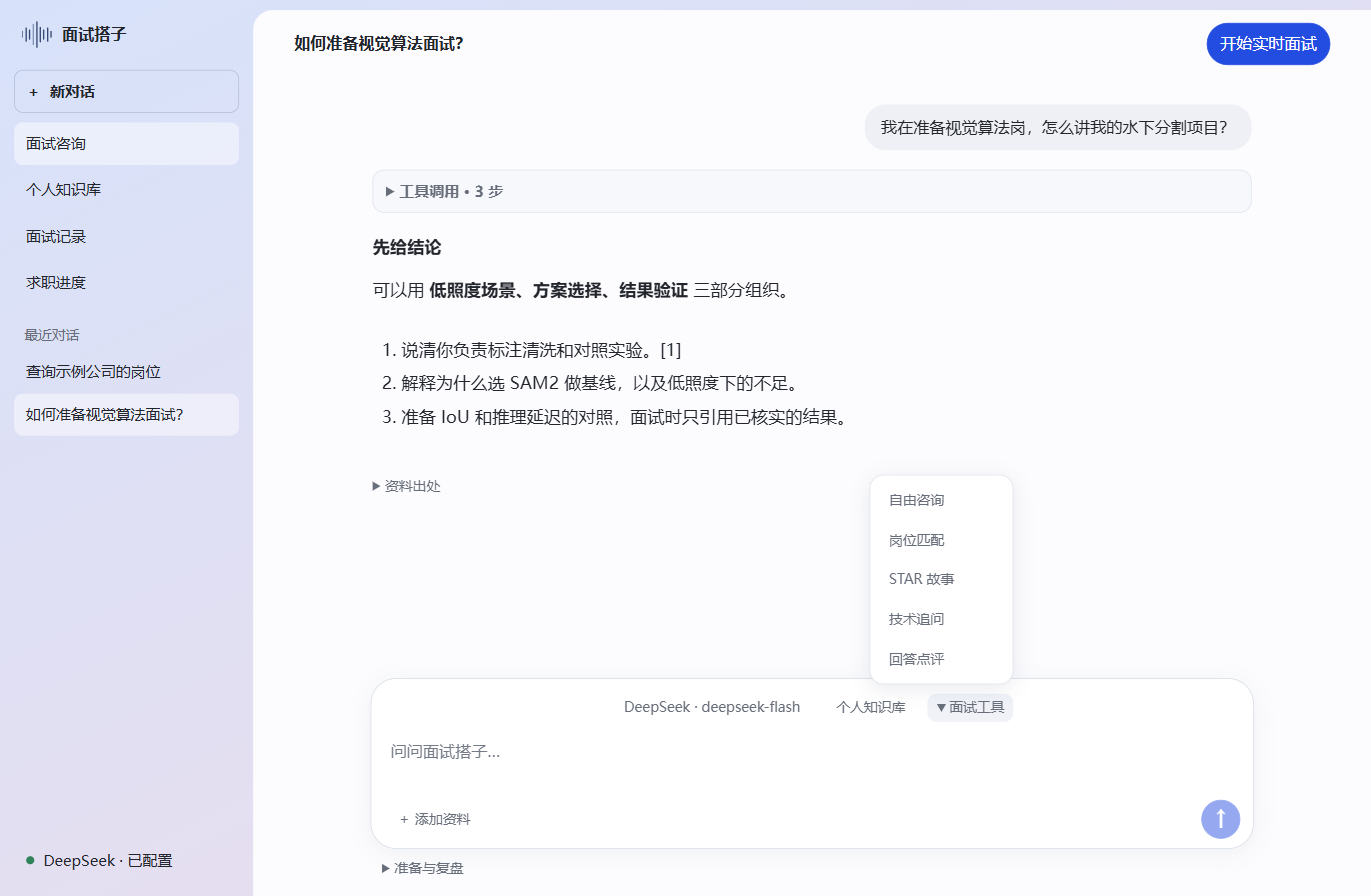
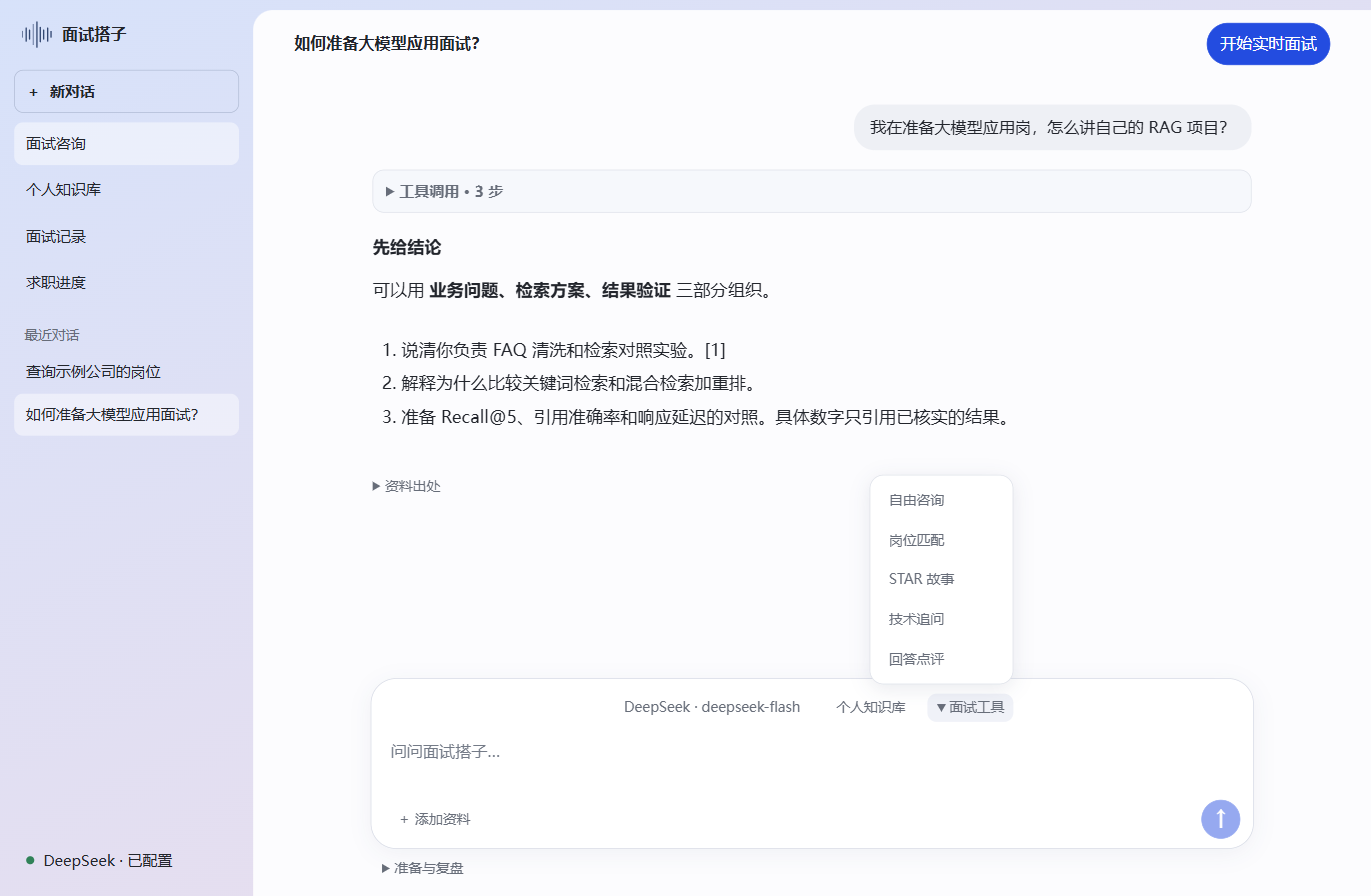
Use an LLM knowledge-base project in the feature demo

diff --git a/ui/index.html b/ui/index.html
@@ -85,7 +85,7 @@
           </div>
           <p class="muted extra-gap">支持 TXT、Markdown 和可选中文字的 PDF。</p>
           <form id="search-form" class="row gap-top">
-            <input id="search" aria-label="搜索个人资料" type="search" maxlength="400" placeholder="关键词，例如 SAM2" required>
+            <input id="search" aria-label="搜索个人资料" type="search" maxlength="400" placeholder="输入资料关键词" required>
             <button class="quiet" type="submit">搜索</button>
           </form>
           <div id="document-list" class="stack gap-top"></div>

diff --git a/README.md b/README.md
@@ -6,11 +6,11 @@
 
 ## 功能与截图
 
-以下截图均来自实际运行的面试搭子。公司、简历、网页和模型回复使用演示数据，实时转写来自合成语音。设置截图省略了本机数据目录。
+以下截图均来自实际运行的面试搭子，统一使用「企业知识库大模型问答（RAG）」作为案例。公司、简历、网页和模型回复使用演示数据，实时转写来自合成语音。设置截图省略了本机数据目录。
 
 ### 1. 面试咨询
 
-点击「新对话」直接提问，例如“我准备面试视觉算法岗，怎么介绍我的水下分割项目？”回复以流式方式显示。你可以在同一个对话里追问，也可以从侧边栏打开之前的对话。结合个人资料回答时，可以展开「资料出处」回看引用的经历。
+点击「新对话」直接提问，例如“我准备面试大模型应用岗，怎么介绍我做的企业知识库问答项目？”回复以流式方式显示。你可以在同一个对话里追问，也可以从侧边栏打开之前的对话。结合个人资料回答时，可以展开「资料出处」回看引用的经历。
 
 ![面试咨询界面，右侧显示提问，左侧显示分点回答和资料出处](docs/assets/01-consultation.png)
 
@@ -35,9 +35,9 @@
 <details>
 <summary>查看岗位匹配、STAR 故事和回答点评的实际界面</summary>
 
-**岗位匹配**会分列已有证据和待补信息。示例中，图像分割和实验评估已有素材，部署环境和延迟预算还需要补充。
+**岗位匹配**会分列已有证据和待补信息。示例中，RAG 检索和离线评估已有素材，上线并发、延迟预算和监控方式还需要补充。
 
-![岗位匹配示例，列出已匹配的分割经验和待补充的部署信息](docs/assets/11-job-fit.png)
+![岗位匹配示例，列出已匹配的 RAG 检索经验和待补充的上线信息](docs/assets/11-job-fit.png)
 
 **STAR 故事**会把经历整理为情境、任务、行动和结果，方便直接练习口述。
 
@@ -80,7 +80,7 @@
 
 点击「开始实时面试」，勾选「系统声音」「麦克风」或两者，再点「开始监听」。左侧区分声源显示转写，右侧接收参考回答。点击一条转写即可把它填进输入框；可以先修正错字，再提交给 DeepSeek。
 
-![实时面试悬浮窗，左侧是实际转写的合成问句，右侧是演示参考回答](docs/assets/08-live-overlay.png)
+![实时面试悬浮窗，左侧实际转写大模型项目问句，右侧展示检索评估的参考回答](docs/assets/08-live-overlay.png)
 
 ### 8. 悬浮窗缩放、置顶与共享可见性
 
@@ -127,7 +127,7 @@ python .\tools\provision-speech.py
 
 - `npm test` 编译源码并验证本地存储、PDF 提取、引用和模拟 DeepSeek 工具调用。
 - `npm run test:desktop` 使用临时数据目录自动操作 Windows 界面。
-- 若要同时检查系统声音、实时转写和捕获保护，可以将 `BUDDY_TEST_WAV` 设为本机一段包含“水下目标”的中文 WAV 文件，再运行桌面测试。
+- 若要同时检查系统声音、实时转写和捕获保护，将 `BUDDY_TEST_WAV` 设为本机中文 WAV 文件的路径，并将 `BUDDY_TEST_EXPECTED` 设为录音中便于识别的词，例如“大模型”。然后运行桌面测试。
 
 源码依赖 [Electron](https://github.com/electron/electron)、[PDF.js](https://github.com/mozilla/pdf.js)、[faster-whisper](https://github.com/SYSTRAN/faster-whisper) 和 [Whisper Small 的 CTranslate2 权重](https://huggingface.co/Systran/faster-whisper-small)。面试工具参考了 [interview-skill](https://github.com/shengxuan-create/interview-skill)、[interview-my-project](https://github.com/WarlCang/interview-my-project) 和 [Tech Interview Handbook](https://github.com/yangshun/tech-interview-handbook) 的公开方法。
 
